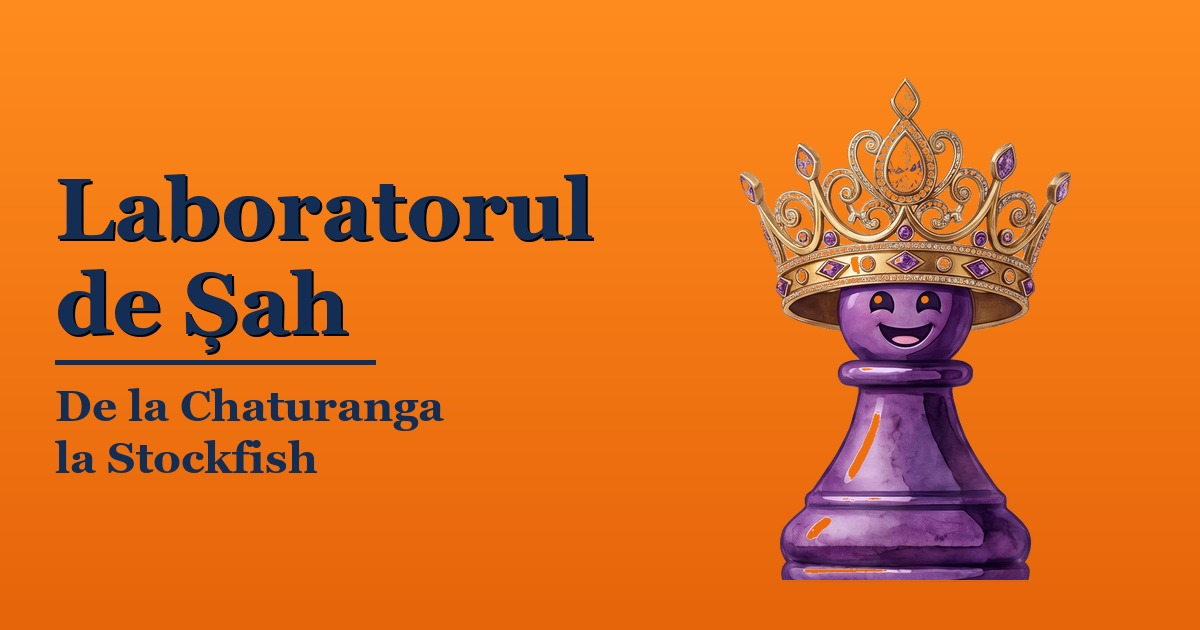
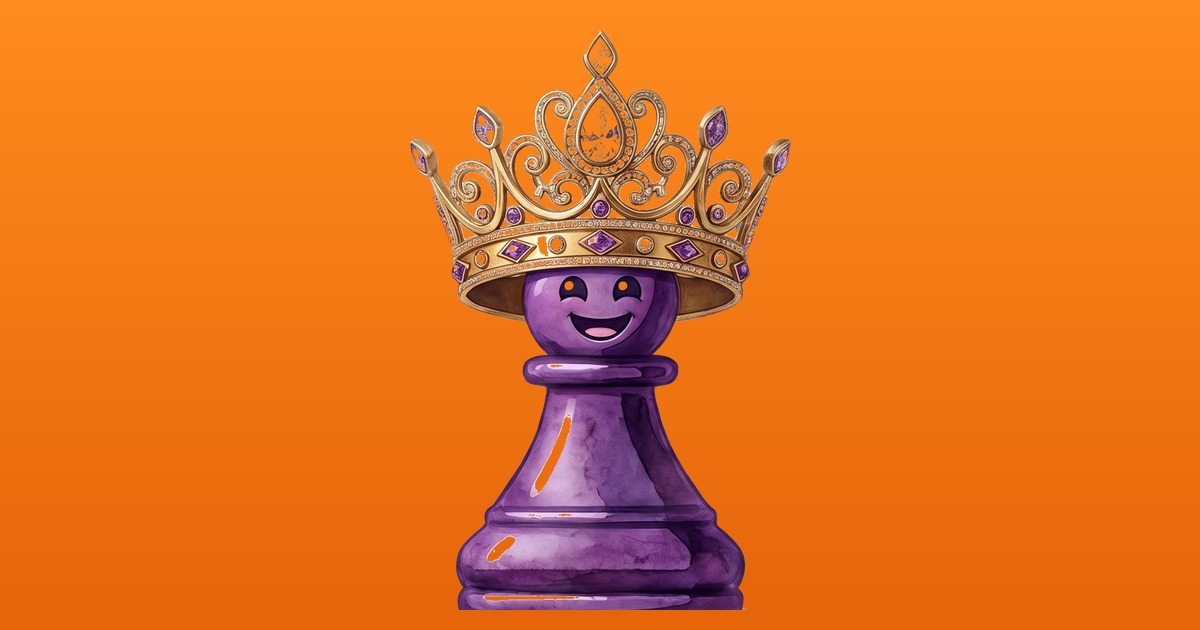
og-image: pion mare centrat fara text + cache bust ?v=2 pentru Telegram

diff --git a/hub.html b/hub.html
@@ -20,7 +20,7 @@
 <meta property="og:url" content="https://laboratoruldesah.ro/hub.html">
 <meta property="og:title" content="Cuprins lecții — Laboratorul de Șah">
 <meta property="og:description" content="Cuprinsul complet al cursului: șase niveluri de șah pentru copii, de la bazele jocului până la modele de mat și capcane.">
-<meta property="og:image" content="https://laboratoruldesah.ro/img/og-image.jpg">
+<meta property="og:image" content="https://laboratoruldesah.ro/img/og-image.jpg?v=2">
 <meta property="og:image:width" content="1200">
 <meta property="og:image:height" content="630">
 <meta property="og:locale" content="ro_RO">
@@ -28,7 +28,7 @@
 <meta name="twitter:card" content="summary_large_image">
 <meta name="twitter:title" content="Cuprins lecții — Laboratorul de Șah">
 <meta name="twitter:description" content="Șase niveluri progresive de lecții de șah pentru copii.">
-<meta name="twitter:image" content="https://laboratoruldesah.ro/img/og-image.jpg">
+<meta name="twitter:image" content="https://laboratoruldesah.ro/img/og-image.jpg?v=2">
 
 <link href="https://fonts.googleapis.com/css2?family=Baloo+2:wght@700;900&family=Nunito:wght@400;700;900&display=swap" rel="stylesheet">
 <style>

diff --git a/index.html b/index.html
@@ -21,7 +21,7 @@
 <meta property="og:url" content="https://laboratoruldesah.ro/">
 <meta property="og:title" content="Laboratorul de Șah — De la Chaturanga la Stockfish">
 <meta property="og:description" content="Platformă educațională de șah pentru copii: lecții, arene de puzzle-uri și istoria șahului.">
-<meta property="og:image" content="https://laboratoruldesah.ro/img/og-image.jpg">
+<meta property="og:image" content="https://laboratoruldesah.ro/img/og-image.jpg?v=2">
 <meta property="og:image:width" content="1200">
 <meta property="og:image:height" content="630">
 <meta property="og:locale" content="ro_RO">
@@ -30,7 +30,7 @@
 <meta name="twitter:card" content="summary_large_image">
 <meta name="twitter:title" content="Laboratorul de Șah">
 <meta name="twitter:description" content="Platformă educațională de șah pentru copii.">
-<meta name="twitter:image" content="https://laboratoruldesah.ro/img/og-image.jpg">
+<meta name="twitter:image" content="https://laboratoruldesah.ro/img/og-image.jpg?v=2">
 
 <link href="https://fonts.googleapis.com/css2?family=Baloo+2:wght@700;900&family=Nunito:wght@400;700;900&display=swap" rel="stylesheet">
 <style>

diff --git a/istoria_sahului.html b/istoria_sahului.html
@@ -20,7 +20,7 @@
 <meta property="og:url" content="https://laboratoruldesah.ro/istoria_sahului.html">
 <meta property="og:title" content="Istoria șahului — De la Chaturanga la Stockfish">
 <meta property="og:description" content="Călătoria șahului prin 1500 de ani — de la Chaturanga în India antică la motoarele AI moderne.">
-<meta property="og:image" content="https://laboratoruldesah.ro/img/og-image.jpg">
+<meta property="og:image" content="https://laboratoruldesah.ro/img/og-image.jpg?v=2">
 <meta property="og:image:width" content="1200">
 <meta property="og:image:height" content="630">
 <meta property="og:locale" content="ro_RO">
@@ -28,7 +28,7 @@
 <meta name="twitter:card" content="summary_large_image">
 <meta name="twitter:title" content="Istoria șahului — Laboratorul de Șah">
 <meta name="twitter:description" content="Evoluția șahului prin 1500 de ani — Chaturanga, Shatranj, Europa și AI.">
-<meta name="twitter:image" content="https://laboratoruldesah.ro/img/og-image.jpg">
+<meta name="twitter:image" content="https://laboratoruldesah.ro/img/og-image.jpg?v=2">
 
 <link href="https://fonts.googleapis.com/css2?family=Baloo+2:wght@700;900&family=Nunito:wght@400;700;900&display=swap" rel="stylesheet">
 <style>

diff --git a/practica2.html b/practica2.html
@@ -20,7 +20,7 @@
 <meta property="og:url" content="https://laboratoruldesah.ro/practica2.html">
 <meta property="og:title" content="Arena de antrenament — Joacă șah împotriva robotului">
 <meta property="og:description" content="Așează piesele și joacă șah împotriva robotului — antrenament liber cu nivele de dificultate.">
-<meta property="og:image" content="https://laboratoruldesah.ro/img/og-image.jpg">
+<meta property="og:image" content="https://laboratoruldesah.ro/img/og-image.jpg?v=2">
 <meta property="og:image:width" content="1200">
 <meta property="og:image:height" content="630">
 <meta property="og:locale" content="ro_RO">
@@ -28,7 +28,7 @@
 <meta name="twitter:card" content="summary_large_image">
 <meta name="twitter:title" content="Arena de antrenament — Laboratorul de Șah">
 <meta name="twitter:description" content="Joacă șah împotriva robotului, alegi nivelul.">
-<meta name="twitter:image" content="https://laboratoruldesah.ro/img/og-image.jpg">
+<meta name="twitter:image" content="https://laboratoruldesah.ro/img/og-image.jpg?v=2">
 
 <link href="https://fonts.googleapis.com/css2?family=Baloo+2:wght@700;900&family=Nunito:wght@400;700;900&display=swap" rel="stylesheet">
 <link rel="stylesheet" href="https://unpkg.com/@chrisoakman/chessboardjs@1.0.0/dist/chessboard-1.0.0.min.css">

diff --git a/make_og_image.py b/make_og_image.py
@@ -63,7 +63,7 @@ oy = (size - pion_cropped.height) // 2
 square.paste(pion_cropped, (ox, oy), pion_cropped)
 
 # Resize la ~520px pentru og-image (inalt ~520, lat proportional)
-target_h = 530
+target_h = 610
 ratio = target_h / square.height
 target_w = int(square.width * ratio)
 pion_final = square.resize((target_w, target_h), Image.LANCZOS)
@@ -93,63 +93,12 @@ for y in range(H):
     bc_ = int(orange_top[2] * (1-t) + orange_bot[2] * t)
     draw.line([(0, y), (W, y)], fill=(rc, gc, bc_))
 
-# ---- 3. Pozitioneaza pionul pe dreapta ----
-# Centrat vertical, usor dreapta
-pion_x = W - target_w - 30
-pion_y = (H - target_h) // 2 + 10
+# ---- 3. Pion centrat, mare ----
+pion_x = (W - target_w) // 2
+pion_y = (H - target_h) // 2
 og.paste(pion_final, (pion_x, pion_y), pion_final)
 
-# ---- 4. Text pe stanga ----
-draw = ImageDraw.Draw(og)
-
-# Incearca sa gaseasca un font decent
-font_paths = [
-    r"C:\Windows\Fonts\georgiab.ttf",   # Georgia Bold
-    r"C:\Windows\Fonts\georgia.ttf",
-    r"C:\Windows\Fonts\arialbd.ttf",
-    r"C:\Windows\Fonts\arial.ttf",
-    r"C:\Windows\Fonts\calibrib.ttf",
-    r"C:\Windows\Fonts\calibri.ttf",
-]
-font_title = None
-font_sub   = None
-for fp in font_paths:
-    try:
-        font_title = ImageFont.truetype(fp, 86)
-        font_sub   = ImageFont.truetype(fp, 44)
-        print(f"Font: {fp}")
-        break
-    except:
-        pass
-if font_title is None:
-    font_title = ImageFont.load_default()
-    font_sub   = ImageFont.load_default()
-
-# Culoare text: navy inchis pentru contrast
-text_color = (20, 45, 85)
-shadow_color = (0, 0, 0, 60)
-
-text_x = 55
-text_y1 = 160
-
-# Umbra usoara
-draw.text((text_x+2, text_y1+2), "Laboratorul", font=font_title, fill=(0,0,0,40))
-draw.text((text_x, text_y1), "Laboratorul", font=font_title, fill=text_color)
-
-text_y2 = text_y1 + 95
-draw.text((text_x+2, text_y2+2), "de Șah", font=font_title, fill=(0,0,0,40))
-draw.text((text_x, text_y2), "de Șah", font=font_title, fill=text_color)
-
-# Linie separatoare
-line_y = text_y2 + 105
-draw.rectangle([(text_x, line_y), (text_x + 320, line_y + 4)], fill=text_color)
-
-text_y3 = line_y + 20
-draw.text((text_x, text_y3), "De la Chaturanga", font=font_sub, fill=text_color)
-text_y4 = text_y3 + 52
-draw.text((text_x, text_y4), "la Stockfish", font=font_sub, fill=text_color)
-
-# ---- 5. Salveaza ----
+# ---- 4. Salveaza (fara text - titlul vine din meta tags) ----
 og_rgb = og.convert("RGB")
 og_rgb.save(r"C:\Users\irina\SahMatAnimat\img\og-image.jpg", "JPEG", quality=92)
 print("Salvat: img/og-image.jpg (1200x630)")

diff --git a/bust_og_cache.py b/bust_og_cache.py
@@ -1,0 +1,10 @@
+import subprocess
+files = subprocess.check_output(['git','ls-files','*.html'], text=True).splitlines()
+updated = 0
+for f in files:
+    content = open(f, encoding='utf-8').read()
+    new = content.replace('og-image.jpg">', 'og-image.jpg?v=2">')
+    if new != content:
+        open(f, 'w', encoding='utf-8').write(new)
+        updated += 1
+print(f'Actualizate: {updated}')